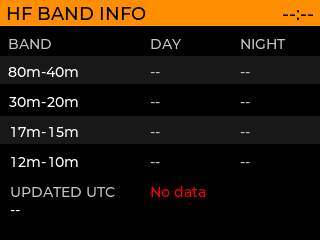
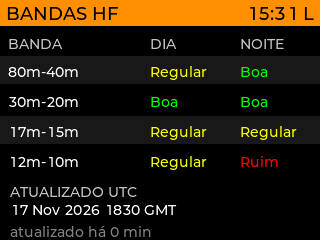
docs: refresh README screenshots

diff --git a/README.md b/README.md
@@ -32,10 +32,12 @@ Screens, in swipe order:
 
 ## Screens
 
-Mock screenshots of each screen, captured from the device in English with
-sample data (the DX, POTA, HamAlert and APRS tables are filled with fake rows,
-and the other network-dependent screens show their "no data" state). The
-Settings screen was opened from the gear icon on the Clock screen.
+Screenshots of each screen, captured from a running device with its stored
+settings and live data, so the UI is in Brazilian Portuguese (the device's
+language). Screens that were still waiting for data show their waiting
+message: DX Cluster and APRS list (no spots or stations yet), and HamAlert
+(no login configured). The Settings screen is opened from the gear icon on
+the Clock screen.
 
 |   |   |   |
 |:---:|:---:|:---:|
@@ -51,22 +53,25 @@ While the board starts, the splash screen shows a live log of each boot step
 name is shown in the log; the password is never logged.
 
 <img src="docs/screenshots/13-boot-log.png" width="200"><br>
-Boot log on the splash screen, early in the boot (before the WiFi join).
+Boot log on the splash screen while the WiFi connection starts.
 
 ### Menus
 
 <img src="docs/screenshots/14-dx-menu.png" width="200"> <img src="docs/screenshots/15-aprs-menu.png" width="200"><br>
 DX Cluster menu (mode and band filters, Clear DX list) and APRS list menu
-(sort order, APRS settings, Beacon now, Clear APRS list).
+(sort order, APRS settings, Beacon now, Clear APRS list), in Portuguese.
 
 ### Web configuration page
 
-The configuration page served by the board, shown with placeholder values
-(callsign `PY0TEST`, fake WiFi network, no passwords). The WiFi and Station
-sections are expanded; the other sections are collapsed.
+The configuration page served by the board, rendered with the settings the
+board reports at `/api/config`. Passwords and API keys are never sent by the
+API, so the page shows them only as "(set)". The latitude and longitude fields
+are left blank in the images. The WiFi and Station sections are expanded; the
+other sections are collapsed. The Export backup warning appears in the header
+after pressing **Export backup**.
 
 <img src="docs/screenshots/web-desktop-en.png" width="600"><br>
-Desktop view (about 1000 px wide), English.
+Desktop view (about 1000 px wide), English, after pressing Export backup.
 
 <img src="docs/screenshots/web-desktop-pt.png" width="600"><br>
 Desktop view, PT-BR language selected in the header.
